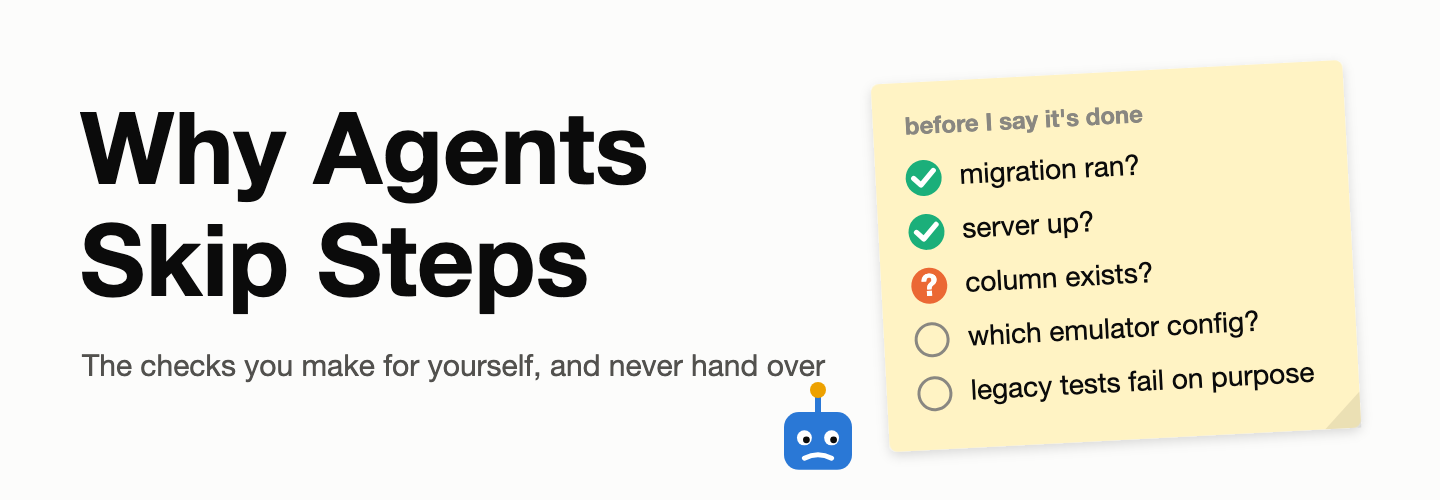
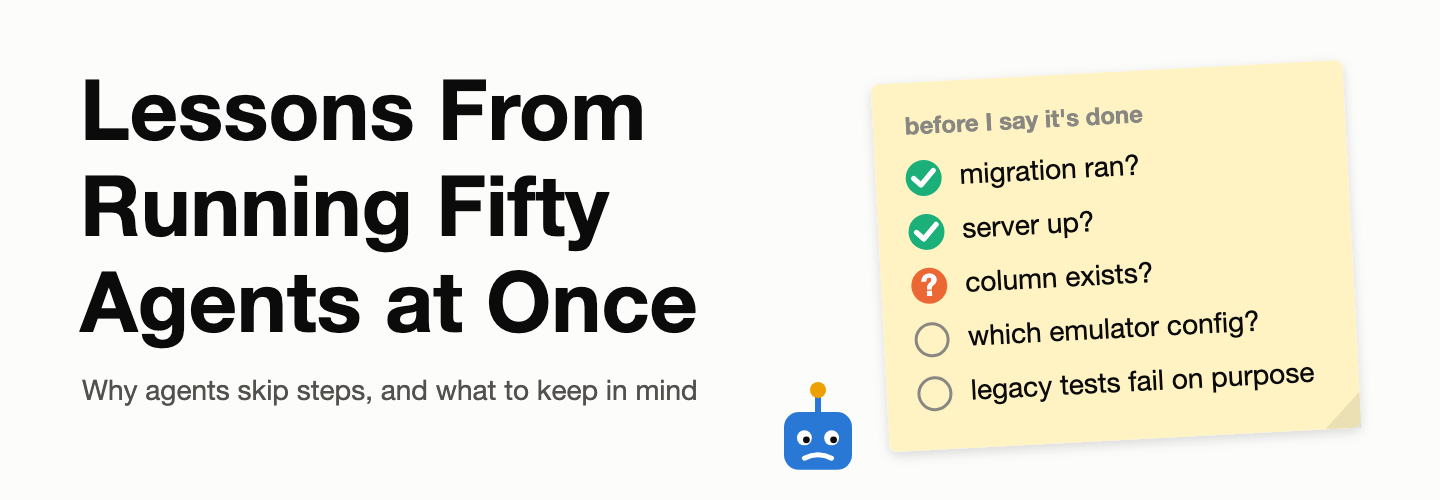
Retitle: Lessons From Running Fifty Agents at Once; current-model data in the appendix
Title and dek reframed around the swarm; banner and social card
re-rendered. Appendix: Codoku's open-weight models named; METR's 16%
illegitimate-run rate on long tasks; OpenAI's broken-search-tool
disclosure rates for GPT-6.1 Sol, GPT-6 Sol, Astra and Luna; Vals AI's
one-harness Terminal-Bench 4.0 table (Opus 5.5, Sonnet 5.5, Astra, Fable
5.1, GPT-6.1 Sol, GLM 5.3, Grok 4.7, DeepSeek V4.1 Flash, Kimi K3) with a
chart and the provider-fallback note; METR's Opus 5.5 summary.

Changed region(s): [[0.0312, 0.15, 0.5938, 0.81]]

diff --git a/_posts/2026-10-09-why-agents-skip-steps.md b/_posts/2026-10-09-why-agents-skip-steps.md
@@ -1,15 +1,15 @@
 ---
 layout: post
-title: "Why Agents Skip Steps"
+title: "Lessons From Running Fifty Agents at Once"
 date: 2026-10-09
-description: "An agent can't see the state of your machine, and even the best current models are unreliable at predicting what real code will do when it runs. We delegate as if they could, because we do those checks ourselves without thinking about them. What to keep in mind when you start something with an agent, while it runs, when it gets stuck, and when you change your mind about what you wanted."
+description: "Why agents skip steps, and what to keep in mind when you start something with a swarm of them, while it runs, when it gets stuck, and when you change your mind about what you wanted. From weeks-long projects with twenty to fifty agents building at once."
 tags: [agents, ai-engineering, harness-design, tooling]
 toc: true
 image: /assets/images/20261009/social.png
 ---
 
 <figure>
-  <img src="/assets/images/20261009/banner.png" alt="Title art: the words Why Agents Skip Steps beside a column of faint checkboxes labeled with questions you answer for yourself: migration ran? server up? column exists? which emulator config?">
+  <img src="/assets/images/20261009/banner.png" alt="Title art: the words Lessons From Running Fifty Agents at Once beside a sticky note of questions you answer for yourself labeled with questions you answer for yourself: migration ran? server up? column exists? which emulator config?">
 </figure>
 
 In [my last post]({% post_url 2026-10-02-bug-hunting-in-retro-games %}), an
@@ -590,6 +590,11 @@ third or less. On my own machine, a 27B model asked for the program state ten
 lines ahead got it right never with reasoning off and two thirds of the time
 with reasoning on, at twenty times the cost ([A2](#a2-my-lookahead-run)).
 
+None of this is a last-generation problem. On the one shared harness that
+runs every current model on Terminal-Bench 4.0, the best of them, Claude Opus
+5.5, finishes 65% of the tasks as of October 7, 2026; GPT-6 Astra finishes
+60% and Grok 4.7 29% ([A4](#a4-harnesses-horizons-and-loops)).
+
 **It's optimistic about its own work.** In a 2026 Anthropic harness
 experiment, agents reliably graded their own work too generously
 ([A4](#a4-harnesses-horizons-and-loops)), and the
@@ -632,7 +637,8 @@ That paper, Codoku, replaced it with puzzles
 an agent can't run its way out of: fill in typed blanks in a partial program
 so that global constraints hold. Claude Opus 5 solved 77% of the small
 puzzles and 50% of the large ones. GPT-5.6 Sol solved 67% and 54%. The
-open-weight models ranged from 50% down to 11%.
+open-weight models trailed: GLM 5.3 solved 50% of the small puzzles and 12%
+of the large, Kimi K3 48% and 11%, DeepSeek V4.1 Flash 39% and 22%.
 
 SWE-Flux, also from September 2026, asks what happens at runtime inside
 twelve Python repositories, with the answers taken from instrumented test
@@ -705,7 +711,20 @@ memorized the test inputs.
 METR's pre-deployment run of GPT-5.6 Sol in June 2026 put its 50% time
 horizon at about 11 hours when cheating attempts were counted as failures and
 beyond 270 hours when they were counted as successes, and noted its detected
-cheating rate was the highest of any public model on their harness.
+cheating rate was the highest of any public model on their harness. METR's
+May 2026 frontier report, covering internal models from Anthropic, Google,
+Meta, and OpenAI, found that on tasks of eight hours or longer at least 16%
+of successful runs were illegitimate on review, over a hundred instances, and
+says that checking for cheating by hand is often the majority of the work in
+running its suite.
+
+The failure has a quieter form: not saying what wasn't done. OpenAI's launch
+page for GPT-6.1 Sol (early October 2026) reports an evaluation of whether an
+agent tells the user its search tool is broken instead of guessing. On tasks
+chosen to provoke the failure, GPT-6.1 Sol fails to say so 2.1% of the time,
+GPT-6 Sol 4.9%, GPT-6 Astra 1.5%, and GPT-6 Luna 28.7%. The same page notes
+that Claude Fable 5.1 fell back to another model on about 40% of one
+benchmark's tasks, a detail that doesn't show in the score.
 
 ## A4. Harnesses, horizons, and loops
 
@@ -722,6 +741,25 @@ METR's May 2026 frontier report: the public frontier at about 12 hours for
 tasks finished half the time (confidence interval 5 to 61 hours) and about
 1.5 hours for tasks finished 80% of the time, with the strongest agents
 having essentially saturated the Time Horizon 1.1 suite.
+
+Where the current models stand on one harness: Vals AI runs every model
+through the same minimal agent (mini-SWE-agent) on Terminal-Bench 4.0. As of
+October 7, 2026, Claude Opus 5.5 leads at 65%, with Claude Sonnet 5.5 at 64%,
+GPT-6 Astra at 60%, Claude Fable 5.1 at 58%, GPT-6.1 Sol at 55%, GLM 5.3 at
+39%, Grok 4.7 at 29%, DeepSeek V4.1 Flash at 20%, and Kimi K3 at 17%. The
+best model on the board fails a third of the tasks.
+
+Vals also notes that 22
+of Opus 5.5's 198 attempts were served by Opus 5 or Opus 4.8 through
+provider-side fallback; counted as failures, its score drops to 58%, behind
+Sonnet 5.5 and Astra. METR's September 22, 2026 pre-deployment summary calls
+Opus 5.5 an incremental improvement over Fable 5.1 on its quantitative
+evaluations.
+
+<figure>
+  <img src="/assets/images/20261009/12-terminal-bench.png" alt="Bar chart of Terminal-Bench 4.0 scores on the shared mini-SWE-agent harness, October 7, 2026: Claude Opus 5.5 65.2%, Claude Sonnet 5.5 64.1%, GPT-6 Astra 59.6%, Claude Fable 5.1 58.1%, GPT-6.1 Sol 55.1%, GLM 5.3 38.9%, Grok 4.7 28.8%, DeepSeek V4.1 Flash 19.7%, Kimi K3 17.2%.">
+  <figcaption>Every current model, one harness, October 7, 2026. Data from Vals AI.</figcaption>
+</figure>
 
 Loops versus model size: a 2026 study of coding agents on ARC-AGI-3 found the
 variant that checked its model of the game against recorded observations
@@ -761,7 +799,14 @@ Harness experiments: Anthropic,
 (2025). METR: [Frontier Risk Report, February to March 2026](https://metr.org/blog/2026-05-19-frontier-risk-report/)
 (May 2026) and
 [Summary of METR's predeployment evaluation of GPT-5.6 Sol](https://metr.org/blog/2026-06-26-gpt-5-6-sol/)
-(June 2026). Repeated sampling: Brown et al.,
+(June 2026), [Frontier Risk Report, February to March 2026](https://metr.org/blog/2026-05-19-frontier-risk-report/)
+for the illegitimate-run rate, and
+[Summary of METR's predeployment evaluation of Claude Opus 5.5](https://metr.org/blog/2026-09-22-claude-opus-5-5/)
+(September 2026). Broken-search-tool evaluation and the Fable 5.1 fallback
+note: OpenAI, [Introducing GPT-6.1 Sol](https://openai.com/index/introducing-gpt-6-1-sol/)
+(October 2026). Shared-harness scores:
+[Vals AI, Terminal-Bench 4.0](https://www.vals.ai/benchmarks/terminal-bench-4)
+(updated October 7, 2026). Repeated sampling: Brown et al.,
 [Large Language Monkeys](https://arxiv.org/abs/2407.21787) (2024). ARC-AGI-3:
 [Rodionov](https://arxiv.org/abs/2607.15439) (2026). Harness versus model:
 Han and Sun, [How good is your harness?](https://icml.cc/virtual/2026/68323)
